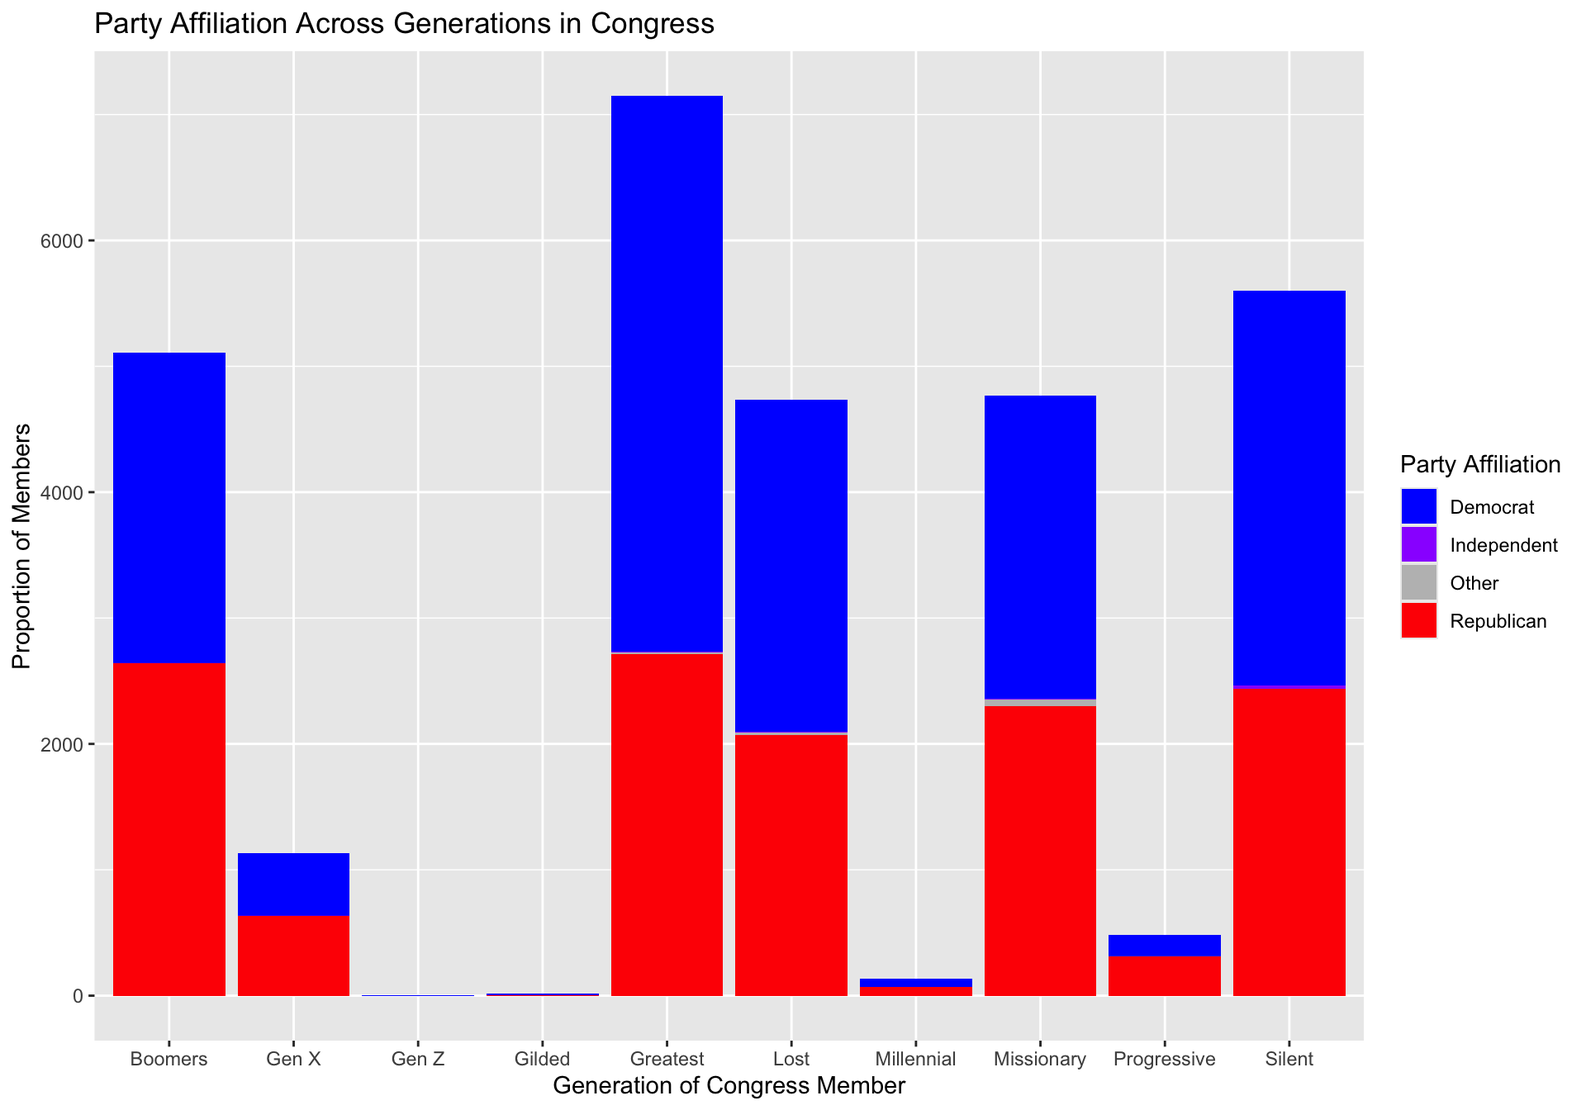
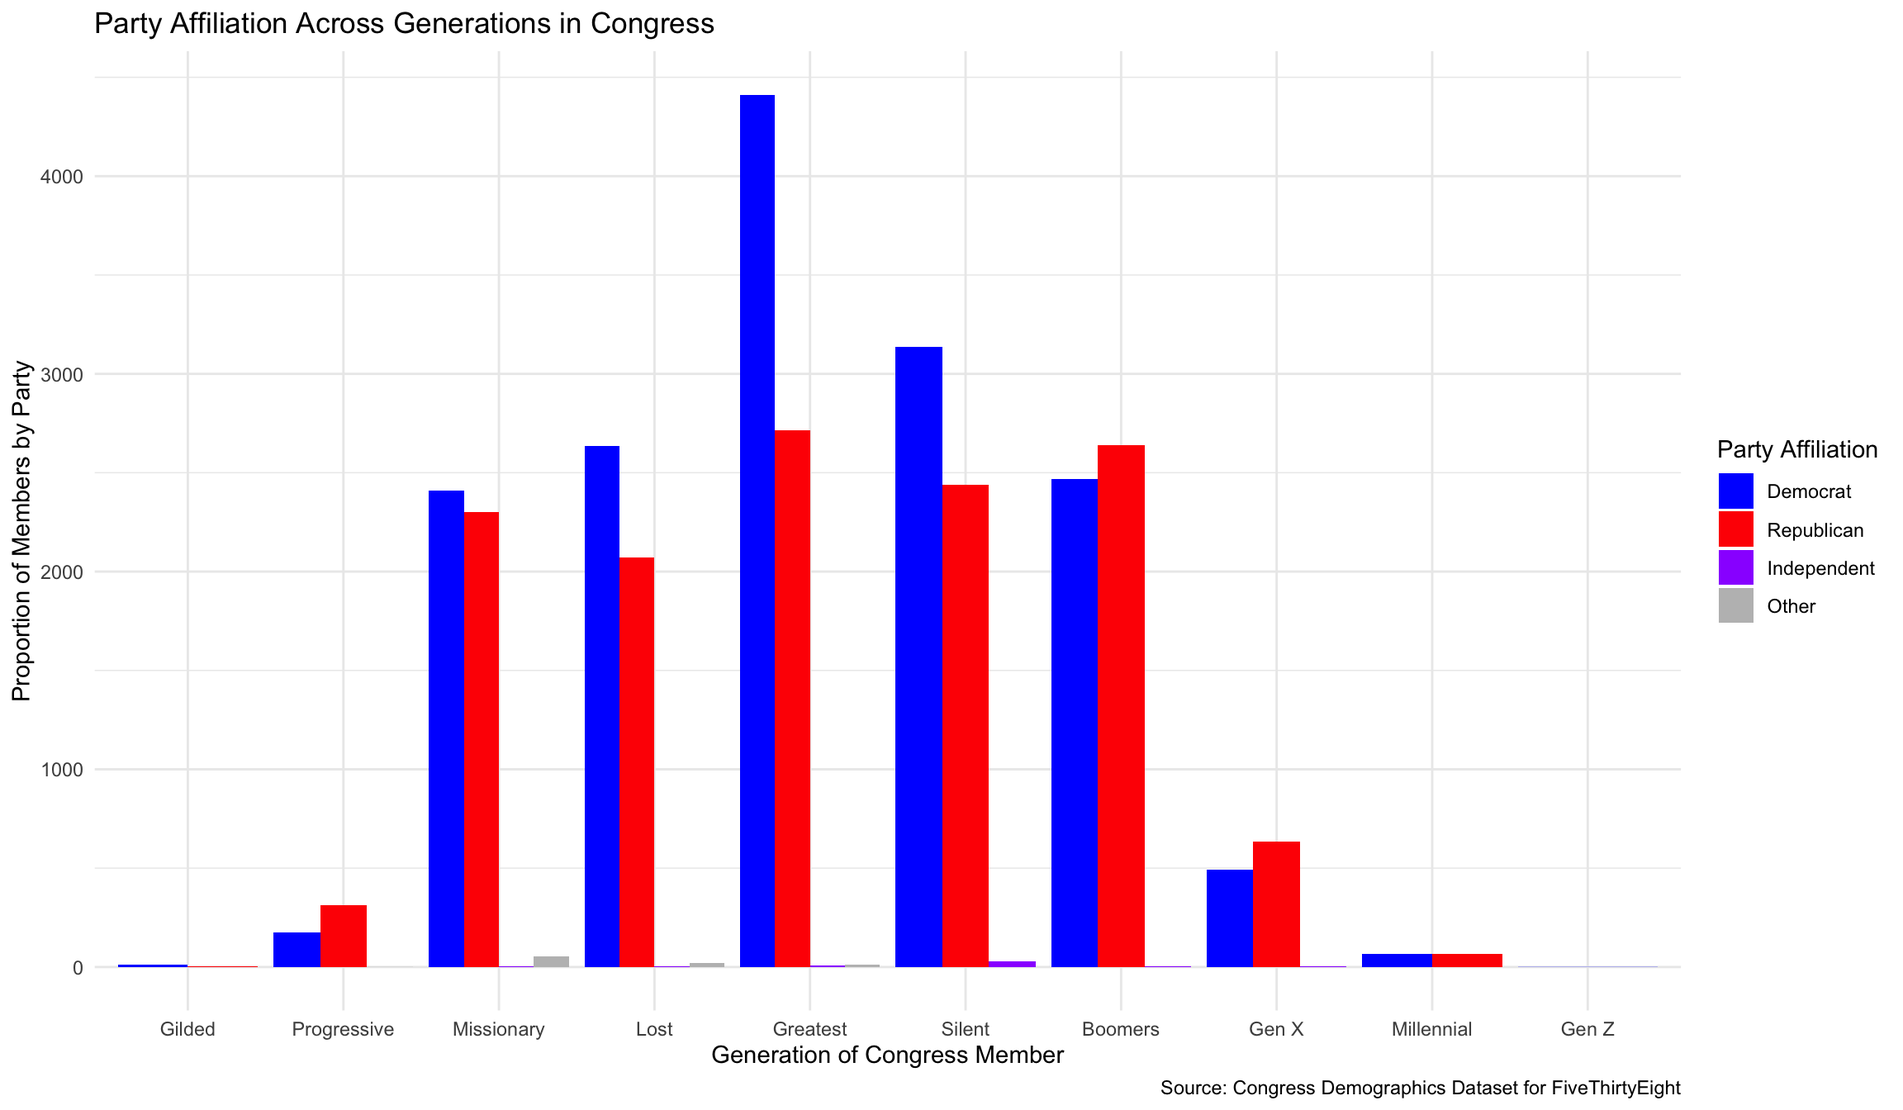
Milestone #4 Complete

diff --git a/index.html b/index.html
@@ -115,7 +115,7 @@ code span.wa { color: #5e5e5e; font-style: italic; } /* Warning */
   <!--/radix_placeholder_rmarkdown_metadata-->
   
   <script type="text/json" id="radix-resource-manifest">
-  {"type":"character","attributes":{},"value":["congress-demographics/data_aging_congress.csv","congress-demographics/README.md","index_files/anchor-4.2.2/anchor.min.js","index_files/bowser-1.9.3/bowser.min.js","index_files/distill-2.2.21/template.v2.js","index_files/figure-html5/unnamed-chunk-2-1.png","index_files/header-attrs-2.17/header-attrs.js","index_files/header-attrs-2.28/header-attrs.js","index_files/jquery-3.6.0/jquery-3.6.0.js","index_files/jquery-3.6.0/jquery-3.6.0.min.js","index_files/jquery-3.6.0/jquery-3.6.0.min.map","index_files/popper-2.6.0/popper.min.js","index_files/tippy-6.2.7/tippy-bundle.umd.min.js","index_files/tippy-6.2.7/tippy-light-border.css","index_files/tippy-6.2.7/tippy.css","index_files/tippy-6.2.7/tippy.umd.min.js","index_files/webcomponents-2.0.0/webcomponents.js"]}
+  {"type":"character","attributes":{},"value":["congress-demographics/data_aging_congress.csv","congress-demographics/README.md","index_files/anchor-4.2.2/anchor.min.js","index_files/bowser-1.9.3/bowser.min.js","index_files/distill-2.2.21/template.v2.js","index_files/figure-html5/unnamed-chunk-2-1.png","index_files/figure-html5/unnamed-chunk-3-1.png","index_files/header-attrs-2.17/header-attrs.js","index_files/header-attrs-2.28/header-attrs.js","index_files/jquery-3.6.0/jquery-3.6.0.js","index_files/jquery-3.6.0/jquery-3.6.0.min.js","index_files/jquery-3.6.0/jquery-3.6.0.min.map","index_files/popper-2.6.0/popper.min.js","index_files/tippy-6.2.7/tippy-bundle.umd.min.js","index_files/tippy-6.2.7/tippy-light-border.css","index_files/tippy-6.2.7/tippy.css","index_files/tippy-6.2.7/tippy.umd.min.js","index_files/webcomponents-2.0.0/webcomponents.js"]}
   </script>
   <!--radix_placeholder_navigation_in_header-->
   <!--/radix_placeholder_navigation_in_header-->
@@ -1547,32 +1547,69 @@ code span.wa { color: #5e5e5e; font-style: italic; } /* Warning */
 <p>I am interested in exploring data related to…</p>
 <p>sports, language, historical shifts in people and ideas, partisanship etc.</p>
 <h2 id="proposal-paragraph">Proposal Paragraph</h2>
-<p>What is the relationship between the general composition of Congress members and their party affiliation over time? I hypothesize that members of younger generations would make up a more significant portion of the democratic portion of Congress, while the older members would make up more of the Republican portion. This is due to the generational theory that younger people are often associated with more progressive ideals due to differences in social and political values. Therefore, during Congresses with lower average ages among members, I expect a strong Democratic percentage and in Congresses with older average ages, I expect a more Republican dominant Congress. My explanatory variable of interest is the generation to which each congress member belongs based on their year of birth. This is measured by assigned names to generations defined by year ranges, such as the progressive generation, millennials, the lost generation, etc. My outcome variable of interest is the party affiliation of any given senator, which is measured by a code that assigns a value to party affiliation. For example, in the dataset democrats are assigned the party_code = 100, republicans = 200, and independents = 328. For my hypothesis to be supported, I would have to see a higher proportion of the youngest generations in the data, specifically millennials and Gen Z, to be associated with the democratic party compared to the older generations in the dataset. Similarly, we would like to see an observable difference in party affiliation between younger and older generations in Congress. My hypothesis would be disproved if party affiliation is relatively evenly distributed across generations within Congress or if the younger generations turn out to have a stronger affiliation with the Republican party compared to the older generations, or vice versa.</p>
-<h2 id="data-visualization">Data Visualization</h2>
+<p>What is the relationship between the general composition of Congress members and their party affiliation over time? I hypothesize that members of younger generations would make up a more significant portion of the Democratic portion of Congress, while the older members would make up more of the Republican portion. This is due to the generational theory that younger people are often associated with more progressive ideals due to differences in social and political values. Therefore, during Congresses with lower average ages among members, I expect a strong democratic percentage and in Congresses with older average ages, I expect a more conservative dominant Congress, accounting for older generation’s differences in party ID due to the party swap in the mid-late 1900s. My explanatory variable of interest is the generation to which each congress member belongs based on their year of birth. This is measured by assigned names to generations defined by year ranges, such as the progressive generation, millennials, the lost generation, etc. My outcome variable of interest is the party affiliation of any given senator, which is measured by a code that assigns a value to party affiliation. For example, in the dataset democrats are assigned the party_code = 100, republicans = 200, and independents = 328. For my hypothesis to be supported, I would have to see a higher proportion of the youngest generations in the data, specifically millennials and Gen Z, to be associated with the democratic party compared to the older generations in the dataset. Similarly, I would like to see an observable difference in party affiliation between younger and older generations in Congress. My hypothesis would be disproved if party affiliation is relatively evenly distributed across generations within Congress or if the younger generations turn out to have a stronger affiliation with the Republican party compared to the older generations, or vice versa.</p>
+<h2 id="data-visualization-and-analysis">Data Visualization and Analysis</h2>
 <div class="layout-chunk" data-layout="l-body">
 <div class="sourceCode">
 <pre class="sourceCode r"><code class="sourceCode r"><span><span class='va'>congress_counts</span> <span class='op'>&lt;-</span> <span class='va'>congress_demographics</span> <span class='op'>|&gt;</span></span>
-<span>  <span class='fu'><a href='https://dplyr.tidyverse.org/reference/mutate.html'>mutate</a></span><span class='op'>(</span>party <span class='op'>=</span> <span class='fu'><a href='https://dplyr.tidyverse.org/reference/case_when.html'>case_when</a></span><span class='op'>(</span></span>
-<span>    <span class='va'>party_code</span> <span class='op'>==</span> <span class='fl'>100</span> <span class='op'>~</span> <span class='st'>"Democrat"</span>,</span>
-<span>    <span class='va'>party_code</span> <span class='op'>==</span> <span class='fl'>200</span> <span class='op'>~</span> <span class='st'>"Republican"</span>,</span>
-<span>    <span class='va'>party_code</span> <span class='op'>==</span> <span class='fl'>328</span> <span class='op'>~</span> <span class='st'>"Independent"</span>,</span>
-<span>    <span class='va'>party_code</span> <span class='op'><a href='https://rdrr.io/r/base/match.html'>%in%</a></span> <span class='fu'><a href='https://rdrr.io/r/base/c.html'>c</a></span><span class='op'>(</span><span class='fl'>537</span>, <span class='fl'>523</span>, <span class='fl'>522</span>, <span class='fl'>402</span>, <span class='fl'>380</span>, <span class='fl'>370</span>, <span class='fl'>356</span>, <span class='fl'>347</span>, <span class='fl'>331</span>, <span class='fl'>329</span>, <span class='fl'>112</span><span class='op'>)</span> <span class='op'>~</span> <span class='st'>"Other"</span><span class='op'>)</span><span class='op'>)</span></span>
+<span>  <span class='fu'><a href='https://dplyr.tidyverse.org/reference/mutate.html'>mutate</a></span><span class='op'>(</span>party <span class='op'>=</span> <span class='fu'><a href='https://dplyr.tidyverse.org/reference/case_when.html'>case_when</a></span><span class='op'>(</span><span class='va'>party_code</span> <span class='op'>==</span> <span class='fl'>100</span> <span class='op'>~</span> <span class='st'>"Democrat"</span>,</span>
+<span>                           <span class='va'>party_code</span> <span class='op'>==</span> <span class='fl'>200</span> <span class='op'>~</span> <span class='st'>"Republican"</span>,</span>
+<span>                           <span class='va'>party_code</span> <span class='op'>==</span> <span class='fl'>328</span> <span class='op'>~</span> <span class='st'>"Independent"</span>,</span>
+<span>                           <span class='va'>party_code</span> <span class='op'><a href='https://rdrr.io/r/base/match.html'>%in%</a></span> <span class='fu'><a href='https://rdrr.io/r/base/c.html'>c</a></span><span class='op'>(</span><span class='fl'>537</span>, <span class='fl'>523</span>, <span class='fl'>522</span>, <span class='fl'>402</span>, <span class='fl'>380</span>, <span class='fl'>370</span>, <span class='fl'>356</span>, <span class='fl'>347</span>, <span class='fl'>331</span>, <span class='fl'>329</span>, <span class='fl'>112</span><span class='op'>)</span> <span class='op'>~</span> <span class='st'>"Other"</span><span class='op'>)</span><span class='op'>)</span></span>
+<span></span>
+<span><span class='va'>congress_counts</span> <span class='op'>&lt;-</span> <span class='va'>congress_counts</span> <span class='op'>|&gt;</span></span>
+<span>  <span class='fu'><a href='https://dplyr.tidyverse.org/reference/mutate.html'>mutate</a></span><span class='op'>(</span>party <span class='op'>=</span> <span class='fu'><a href='https://rdrr.io/r/base/factor.html'>factor</a></span><span class='op'>(</span><span class='va'>party</span>, levels<span class='op'>=</span> <span class='fu'><a href='https://rdrr.io/r/base/c.html'>c</a></span><span class='op'>(</span><span class='st'>"Democrat"</span>, <span class='st'>"Republican"</span>, <span class='st'>"Independent"</span>, <span class='st'>"Other"</span><span class='op'>)</span><span class='op'>)</span><span class='op'>)</span></span>
 <span></span>
 <span><span class='va'>congress_counts</span> <span class='op'>&lt;-</span> <span class='va'>congress_counts</span> <span class='op'>|&gt;</span></span>
 <span>  <span class='fu'><a href='https://dplyr.tidyverse.org/reference/count.html'>count</a></span><span class='op'>(</span><span class='va'>generation</span>, <span class='va'>party</span><span class='op'>)</span> <span class='op'>|&gt;</span></span>
 <span>  <span class='fu'><a href='https://dplyr.tidyverse.org/reference/rename.html'>rename</a></span><span class='op'>(</span>count <span class='op'>=</span> <span class='va'>n</span><span class='op'>)</span></span>
 <span></span>
+<span><span class='va'>congress_counts</span> <span class='op'>&lt;-</span> <span class='va'>congress_counts</span> <span class='op'>|&gt;</span></span>
+<span>  <span class='fu'><a href='https://dplyr.tidyverse.org/reference/mutate.html'>mutate</a></span><span class='op'>(</span>generation <span class='op'>=</span> <span class='fu'><a href='https://rdrr.io/r/base/factor.html'>factor</a></span><span class='op'>(</span><span class='va'>generation</span>, levels <span class='op'>=</span> <span class='fu'><a href='https://rdrr.io/r/base/c.html'>c</a></span><span class='op'>(</span></span>
+<span>    <span class='st'>"Gilded"</span>, <span class='st'>"Progressive"</span>, <span class='st'>"Missionary"</span>, <span class='st'>"Lost"</span>, <span class='st'>"Greatest"</span>, <span class='st'>"Silent"</span>, <span class='st'>"Boomers"</span>, <span class='st'>"Gen X"</span>, <span class='st'>"Millennial"</span>, <span class='st'>"Gen Z"</span><span class='op'>)</span><span class='op'>)</span><span class='op'>)</span></span>
+<span></span>
 <span><span class='va'>congress_counts</span> <span class='op'>|&gt;</span></span>
 <span>  <span class='fu'><a href='https://ggplot2.tidyverse.org/reference/ggplot.html'>ggplot</a></span><span class='op'>(</span>mapping <span class='op'>=</span> <span class='fu'><a href='https://ggplot2.tidyverse.org/reference/aes.html'>aes</a></span><span class='op'>(</span>x <span class='op'>=</span> <span class='va'>generation</span>, y <span class='op'>=</span> <span class='va'>count</span>, fill <span class='op'>=</span> <span class='va'>party</span><span class='op'>)</span><span class='op'>)</span> <span class='op'>+</span></span>
-<span>  <span class='fu'><a href='https://ggplot2.tidyverse.org/reference/geom_bar.html'>geom_bar</a></span><span class='op'>(</span>stat <span class='op'>=</span> <span class='st'>"identity"</span>, position <span class='op'>=</span> <span class='st'>"stack"</span><span class='op'>)</span> <span class='op'>+</span></span>
+<span>  <span class='fu'><a href='https://ggplot2.tidyverse.org/reference/geom_bar.html'>geom_bar</a></span><span class='op'>(</span>stat <span class='op'>=</span> <span class='st'>"identity"</span>, position <span class='op'>=</span> <span class='st'>"dodge"</span><span class='op'>)</span> <span class='op'>+</span></span>
 <span>  <span class='fu'><a href='https://ggplot2.tidyverse.org/reference/scale_manual.html'>scale_fill_manual</a></span><span class='op'>(</span>values <span class='op'>=</span> <span class='fu'><a href='https://rdrr.io/r/base/c.html'>c</a></span><span class='op'>(</span><span class='st'>"Democrat"</span> <span class='op'>=</span> <span class='st'>"blue"</span>, <span class='st'>"Republican"</span> <span class='op'>=</span> <span class='st'>"red"</span>, <span class='st'>"Independent"</span> <span class='op'>=</span> <span class='st'>"purple1"</span>, <span class='st'>"Other"</span> <span class='op'>=</span> <span class='st'>"grey"</span><span class='op'>)</span><span class='op'>)</span> <span class='op'>+</span></span>
 <span>  <span class='fu'><a href='https://ggplot2.tidyverse.org/reference/labs.html'>labs</a></span><span class='op'>(</span>x <span class='op'>=</span> <span class='st'>"Generation of Congress Member"</span>,</span>
-<span>       y <span class='op'>=</span> <span class='st'>"Proportion of Members"</span>,</span>
+<span>       y <span class='op'>=</span> <span class='st'>"Proportion of Members by Party"</span>,</span>
 <span>       fill <span class='op'>=</span> <span class='st'>"Party Affiliation"</span>,</span>
-<span>       title <span class='op'>=</span> <span class='st'>"Party Affiliation Across Generations in Congress"</span><span class='op'>)</span></span></code></pre>
+<span>       title <span class='op'>=</span> <span class='st'>"Party Affiliation Across Generations in Congress"</span>,</span>
+<span>       caption <span class='op'>=</span> <span class='st'>"Source: Congress Demographics Dataset for FiveThirtyEight"</span><span class='op'>)</span> <span class='op'>+</span></span>
+<span>  <span class='fu'><a href='https://ggplot2.tidyverse.org/reference/ggtheme.html'>theme_minimal</a></span><span class='op'>(</span><span class='op'>)</span></span></code></pre>
 </div>
-<p><img src="index_files/figure-html5/unnamed-chunk-2-1.png" width="960" /></p>
+<p><img src="index_files/figure-html5/unnamed-chunk-2-1.png" width="1152" /></p>
 </div>
+<div class="layout-chunk" data-layout="l-body">
+<div class="sourceCode">
+<pre class="sourceCode r"><code class="sourceCode r"><span><span class='va'>generation_percentages</span> <span class='op'>&lt;-</span> <span class='va'>congress_demographics</span> <span class='op'>|&gt;</span></span>
+<span>  <span class='fu'><a href='https://dplyr.tidyverse.org/reference/group_by.html'>group_by</a></span><span class='op'>(</span><span class='va'>congress</span>, <span class='va'>generation</span><span class='op'>)</span> <span class='op'>|&gt;</span></span>
+<span>  <span class='fu'><a href='https://dplyr.tidyverse.org/reference/summarise.html'>summarise</a></span><span class='op'>(</span>count <span class='op'>=</span> <span class='fu'><a href='https://dplyr.tidyverse.org/reference/context.html'>n</a></span><span class='op'>(</span><span class='op'>)</span>, .groups <span class='op'>=</span> <span class='st'>"drop"</span><span class='op'>)</span> <span class='op'>|&gt;</span></span>
+<span>  <span class='fu'><a href='https://dplyr.tidyverse.org/reference/group_by.html'>group_by</a></span><span class='op'>(</span><span class='va'>congress</span><span class='op'>)</span> <span class='op'>|&gt;</span></span>
+<span>  <span class='fu'><a href='https://dplyr.tidyverse.org/reference/mutate.html'>mutate</a></span><span class='op'>(</span>percentage <span class='op'>=</span> <span class='op'>(</span><span class='va'>count</span> <span class='op'>/</span> <span class='fu'><a href='https://rdrr.io/r/base/sum.html'>sum</a></span><span class='op'>(</span><span class='va'>count</span><span class='op'>)</span><span class='op'>)</span> <span class='op'>*</span> <span class='fl'>100</span><span class='op'>)</span></span>
+<span></span>
+<span></span>
+<span><span class='va'>generation_percentages</span> <span class='op'>|&gt;</span></span>
+<span>  <span class='fu'><a href='https://ggplot2.tidyverse.org/reference/ggplot.html'>ggplot</a></span><span class='op'>(</span>mapping <span class='op'>=</span> <span class='fu'><a href='https://ggplot2.tidyverse.org/reference/aes.html'>aes</a></span><span class='op'>(</span>x <span class='op'>=</span> <span class='va'>congress</span>, y <span class='op'>=</span> <span class='va'>percentage</span>, color <span class='op'>=</span> <span class='va'>generation</span><span class='op'>)</span><span class='op'>)</span> <span class='op'>+</span></span>
+<span>  <span class='fu'><a href='https://ggplot2.tidyverse.org/reference/geom_path.html'>geom_line</a></span><span class='op'>(</span>size <span class='op'>=</span> <span class='fl'>1</span><span class='op'>)</span> <span class='op'>+</span></span>
+<span>  <span class='fu'><a href='https://ggplot2.tidyverse.org/reference/geom_point.html'>geom_point</a></span><span class='op'>(</span><span class='op'>)</span> <span class='op'>+</span></span>
+<span>  <span class='fu'><a href='https://ggplot2.tidyverse.org/reference/scale_manual.html'>scale_color_manual</a></span><span class='op'>(</span>values <span class='op'>=</span> <span class='fu'><a href='https://rdrr.io/r/base/c.html'>c</a></span><span class='op'>(</span><span class='st'>"Gilded"</span> <span class='op'>=</span> <span class='st'>"orange"</span>, <span class='st'>"Progressive"</span> <span class='op'>=</span> <span class='st'>"cyan"</span>,</span>
+<span>                                <span class='st'>"Missionary"</span> <span class='op'>=</span> <span class='st'>"green"</span>, <span class='st'>"Lost"</span> <span class='op'>=</span> <span class='st'>"blue"</span>,</span>
+<span>                                <span class='st'>"Greatest"</span> <span class='op'>=</span> <span class='st'>"navy"</span>, <span class='st'>"Silent"</span> <span class='op'>=</span> <span class='st'>"purple"</span>,</span>
+<span>                                <span class='st'>"Boomers"</span> <span class='op'>=</span> <span class='st'>"pink"</span>, <span class='st'>"Gen X"</span> <span class='op'>=</span> <span class='st'>"forestgreen"</span>,</span>
+<span>                                <span class='st'>"Millennial"</span> <span class='op'>=</span> <span class='st'>"red"</span>, <span class='st'>"Gen Z"</span> <span class='op'>=</span> <span class='st'>"yellow3"</span><span class='op'>)</span><span class='op'>)</span> <span class='op'>+</span></span>
+<span>  <span class='fu'><a href='https://ggplot2.tidyverse.org/reference/labs.html'>labs</a></span><span class='op'>(</span>x <span class='op'>=</span> <span class='st'>"Congress Number"</span>,</span>
+<span>       y <span class='op'>=</span> <span class='st'>"Percentage of Members"</span>,</span>
+<span>       color <span class='op'>=</span> <span class='st'>"Generation"</span>,</span>
+<span>       title <span class='op'>=</span> <span class='st'>"Generational Composition of Congress Over Time: 66th to 118th"</span>,</span>
+<span>       caption <span class='op'>=</span> <span class='st'>"Source: Congress Demographics Dataset for FiveThirtyEight"</span><span class='op'>)</span> <span class='op'>+</span></span>
+<span>  <span class='fu'><a href='https://ggplot2.tidyverse.org/reference/ggtheme.html'>theme_minimal</a></span><span class='op'>(</span><span class='op'>)</span></span></code></pre>
+</div>
+<p><img src="index_files/figure-html5/unnamed-chunk-3-1.png" width="1152" /></p>
+</div>
+<p>For the sake of clarity, while taking into account the shift in party ideology and structure that occurred in the mid-late 1900s, we will address political ideology through in more literal terms of liberalism and conservatism. Upon observation of the graphs, an obvious issue with my hypothesis is that due to general trend of higher average ages of congress members, there are not many younger representatives in the data for us to analyze trends and potentially understand the patterns of liberal, or conservative, ideology among younger representatives.</p>
+<p>However, upon looking at the proportion of party members and then comparing that to the percentage of by members by generation within each recorded congress, we can see that my hypothesis was incorrect. The trends may may actually show the opposite, where we are seeing more conservative ideals among the younger generations elected to congress. The dominance of the liberal Democratic Party within the Greatest Generation that dominated congress from the 80th to 100th congresses along with liberal trends in the Missionary, Lost, and Silent Generations show that the new liberalism adopted by the Democratic party from the New Deal and ensuing Civil Rights Movement was dominant among the older generations. Then, among Boomers and Gen X, there is a surge of conservatism from the Republican Party through the congresses of the late 1900s into the 2000s. Then we come back to the small amounts of data available to us from Millennials and Gen Z where it seems there is a balance between conservatism and liberalism among Millennials, and simply not enough data to determine a trend among Gen Z representatives. Overall, these graphs show a conflicting argument to my hypothesis, and it will be interesting to dive into these ideological trends more.</p>
 <div class="sourceCode" id="cb1"><pre class="sourceCode r distill-force-highlighting-css"><code class="sourceCode r"></code></pre></div>
 <!--radix_placeholder_article_footer-->
 <!--/radix_placeholder_article_footer-->
